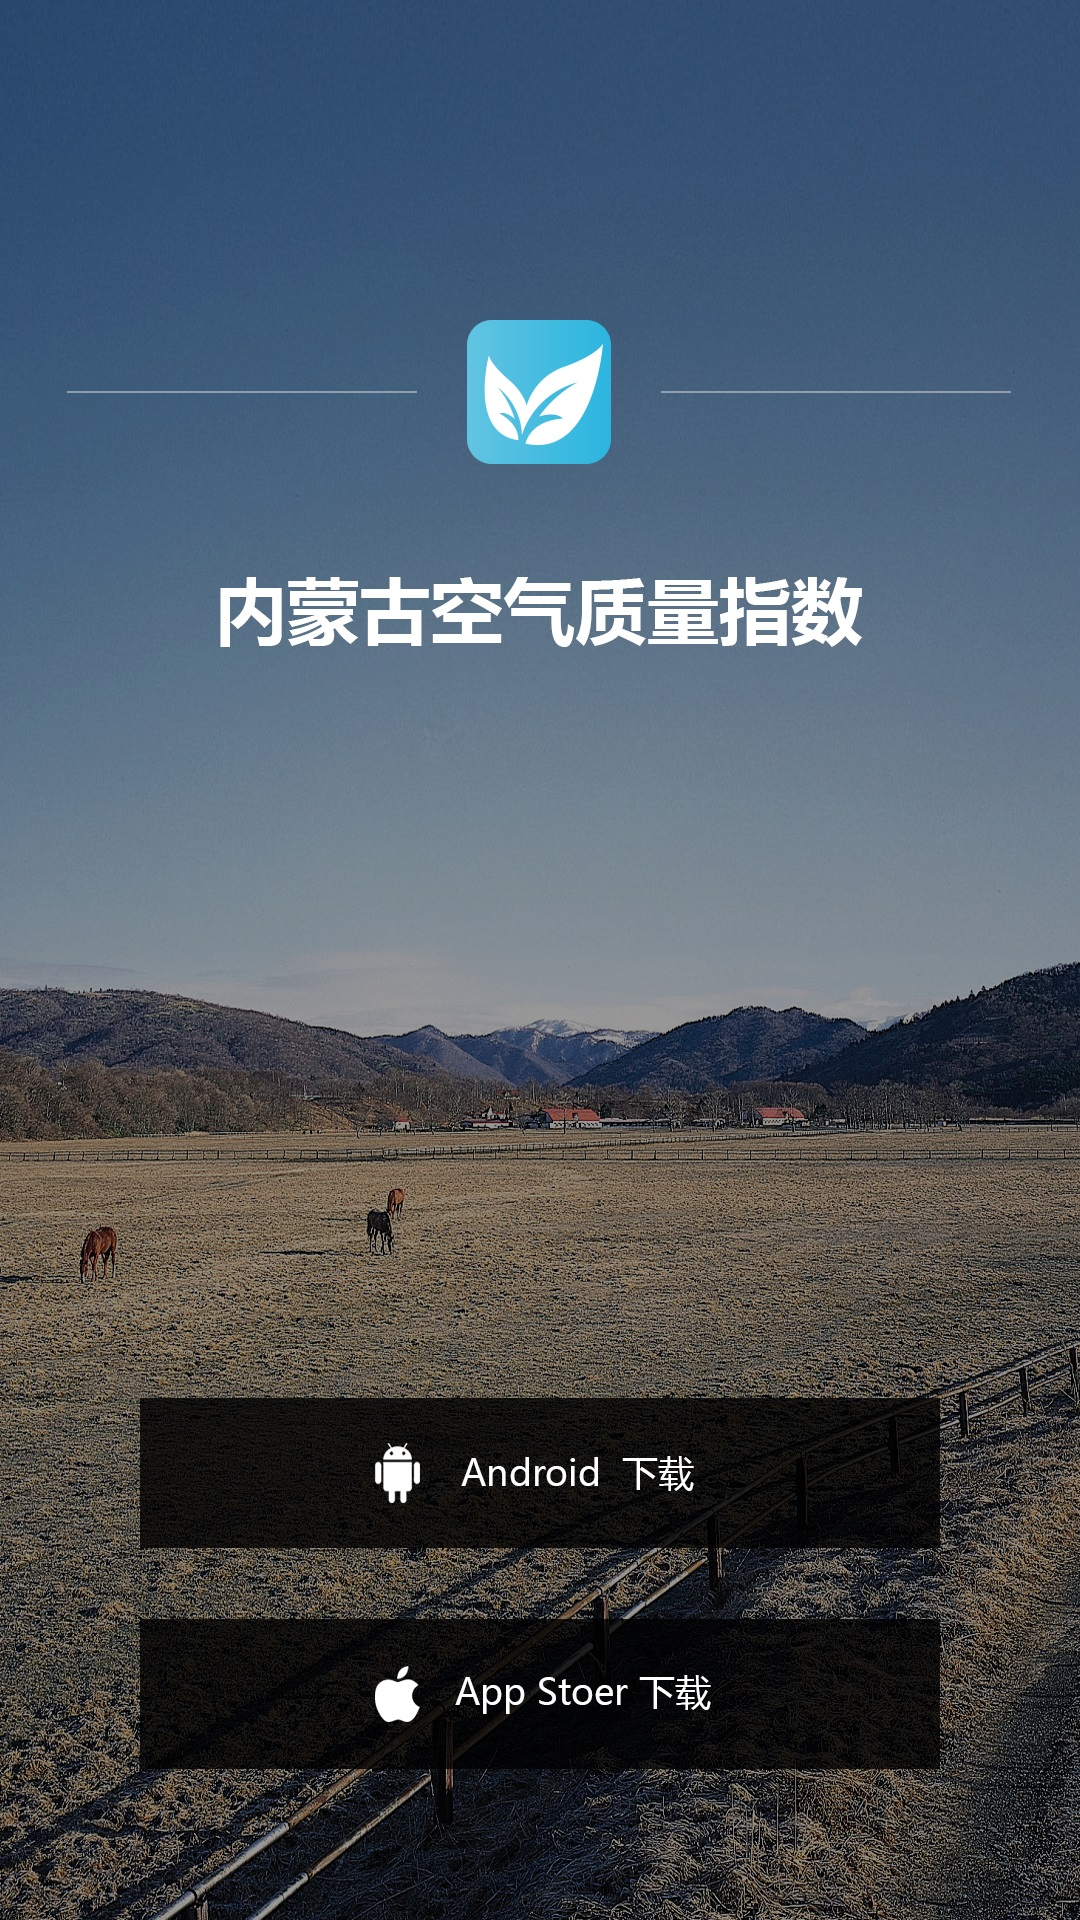
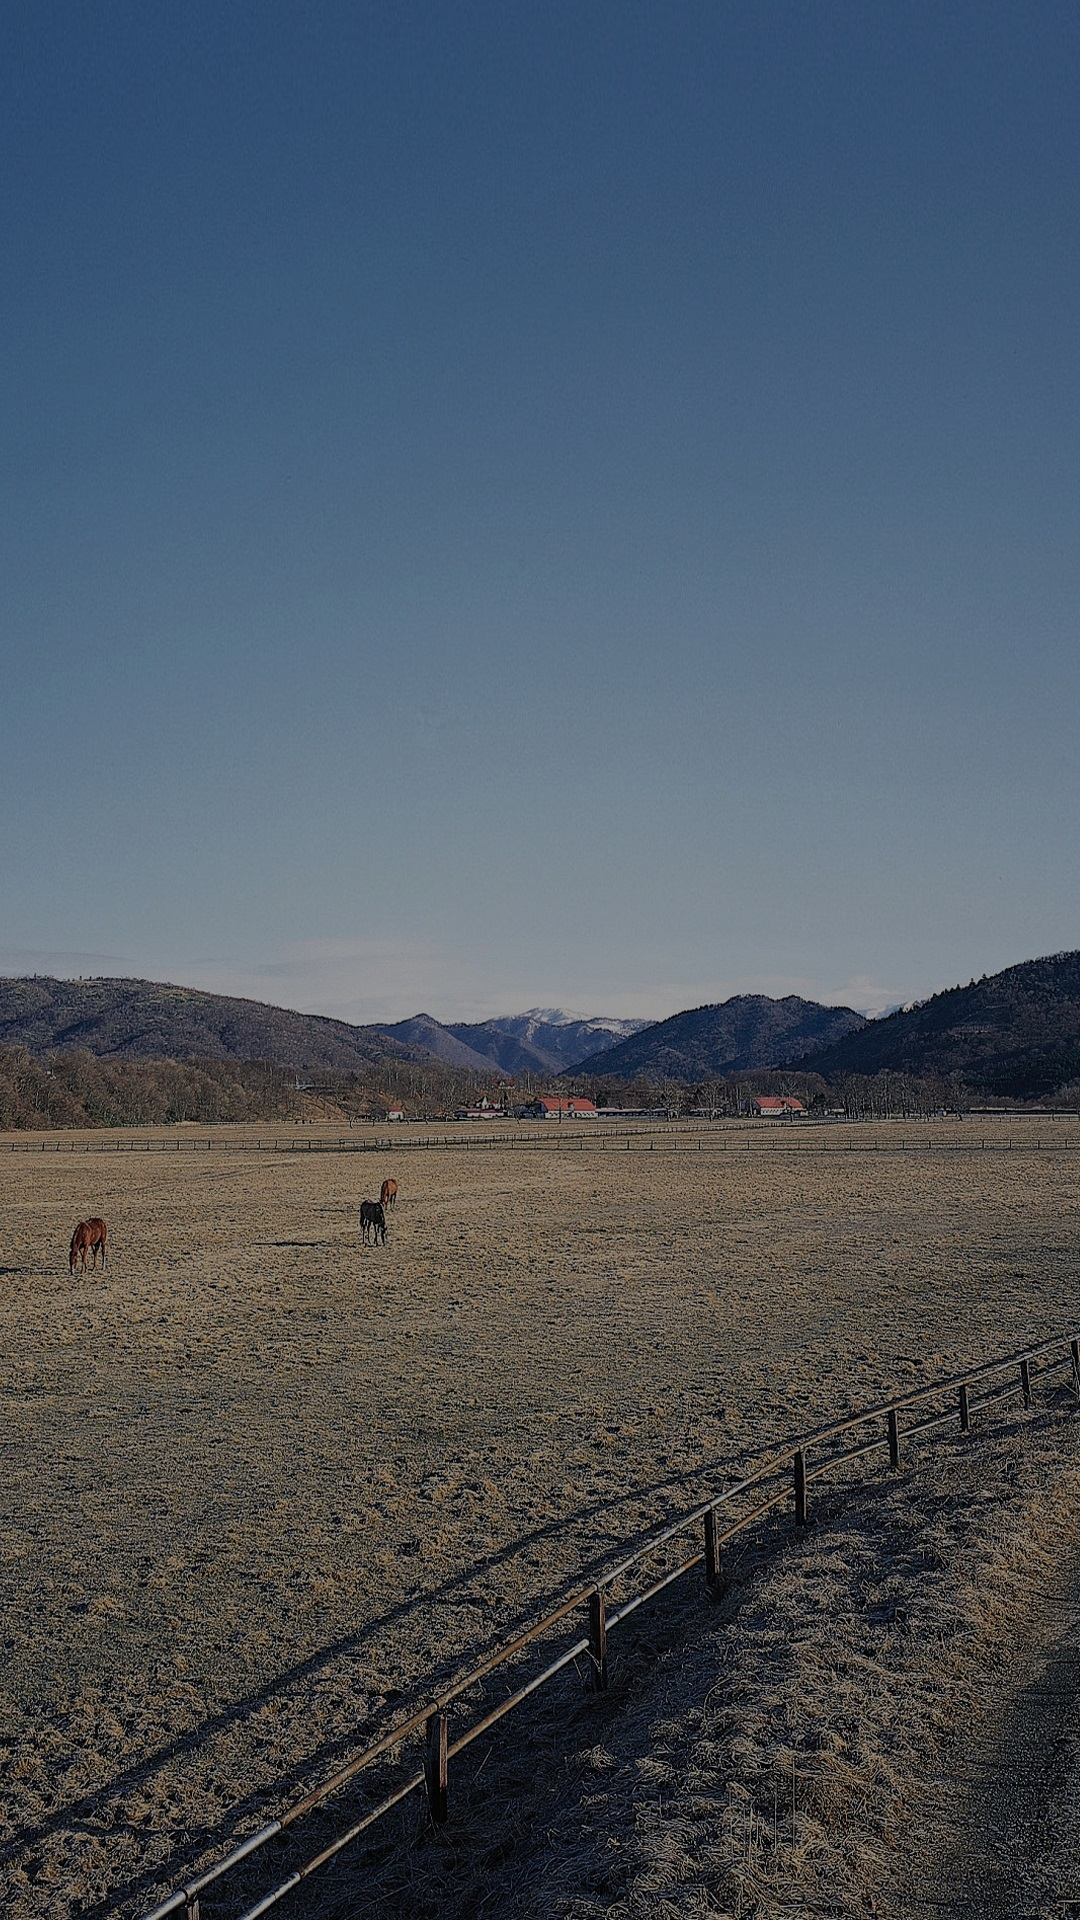
app

diff --git a/client/app.scss b/client/app.scss
@@ -2,15 +2,28 @@
 
   height: 100%;
   width: 100%;
-  max-width: 768px;
+  //max-width: 768px;
   //position: relative;
   //top: -65px;
 
   background: url("app.jpg") no-repeat top center;
   background-size: cover;
-  .block {
+  .logo {
+    padding: 15px;
+    margin: 50px auto;
     display: block;
-    height: 70%;
+    height: 80px;
+    width: 80px;
+    vertical-align: middle;
+  }
+  .title {
+    display: block;
+    height: 30%;
+    p {
+      color: white;
+      font-weight: bolder;
+      font-size: 25px;
+    }
   }
   .btns {
     max-width: 330px;

diff --git a/client/app.html b/client/app.html
@@ -5,8 +5,10 @@
         }
     </style>
     <div class="app container-fluid">
-        <div class="block">
+        <img class="logo" src="logo.png"/>
 
+        <div class="title">
+            <p class="text-center">内蒙古空气质量指数</p>
         </div>
         <div class="btns">
             <a class="btn btn-default Android">Android</a>
